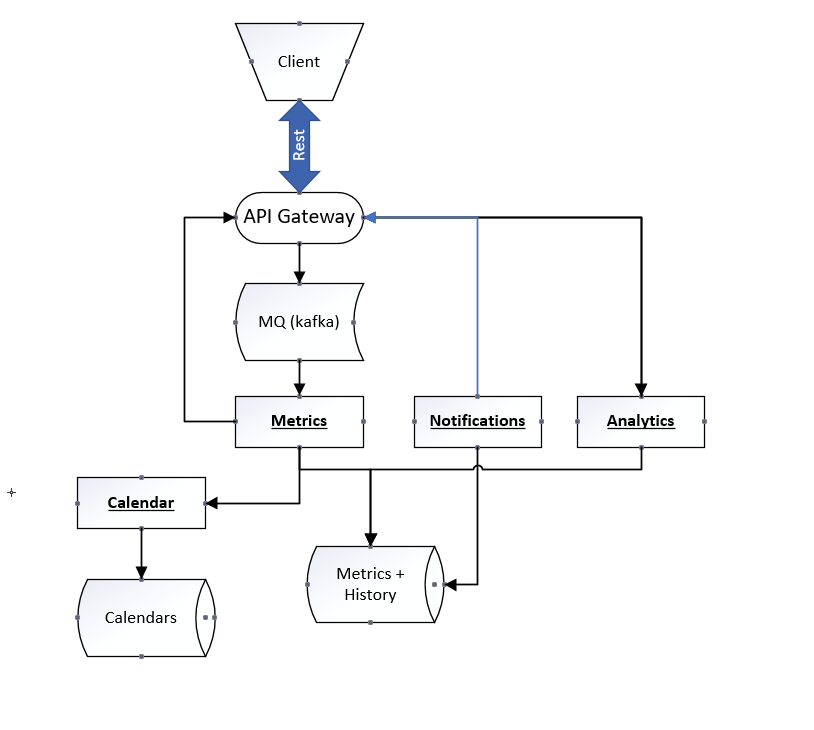
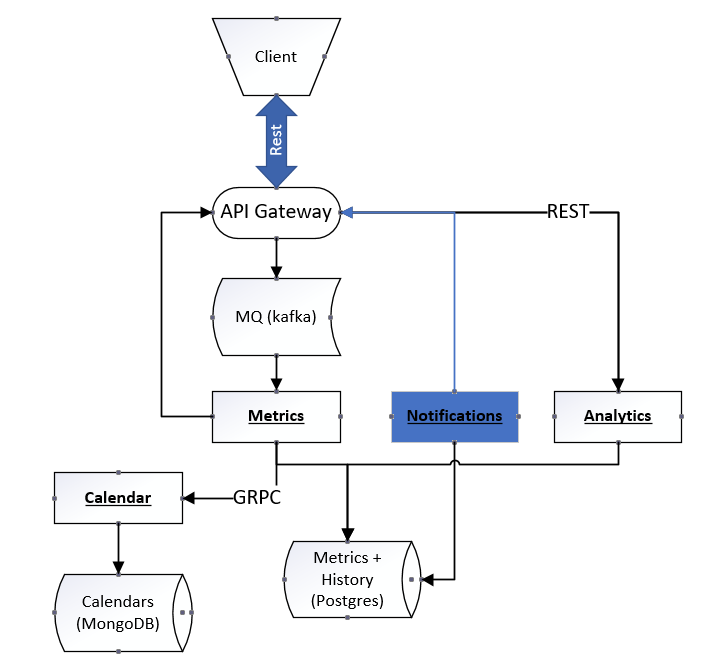
Описание проекта README

Changed region(s): [[0.0616, 0.0, 0.9552, 0.9851]]

diff --git a/README.md b/README.md
@@ -4,7 +4,20 @@
 Например, с помощью сервиса можно добавить временные метрики к задачам в таск-трекерах (Jira, Trello и др.) для отслеживания времени, потраченное на выполнение задач на разных этапах ее решения,
 либо добавить количественные метрики для отслеживания показателей вида "сколько раз задача была возвращена в работу заказчиком".
 При этом основным требованием к сервису является его легкая интеграция в существующие системы с помощью вызова REST-вебхуков с передачей минимального кол-ва информации по задаче (или иной сущности, по которой считаются метрики)
-Например: на изменение задачи в Jira добавляется вебхук, который отправляет минимальную иннформацию о текущем состоянии задачи, которой достаточно для обновления метрик, привязанных к этой задаче.
+### User-case сервиса
+1. Администратор сервиса создает метрику "Время решения заявки", добавляет два metric condition: 
+   * если статус заявки = "В работе", счетчик запускается (status=START), и начинает отсчет времени с 0 (actualTime = 0)
+   * если статус заявки = "Выполнено", счетчик останавливается (status=STOP)
+2. Администратор Jira настраивает веб-хук: при создании\обновлении заявки отправлять ключ заявки, время события и значения основных полей: статус, приоритет, тип и т.д. 
+3. Пользователь Jira создает заявку, и затем переводит ее в статус "В работе", в этот момент выполняется веб-хук и событие отправляется в сервис
+4. Gateway получает событие, помещает его в Kafka, и возвращает ответ пользователю Accepted
+5. Модуль metrics получает сообщение из очереди, находит метрику, выполняет ее правила (с помощью graalVM polyglot). В данном случае сработает первое правило, и счетчик запустится
+6. Далее, через какое-то время пользователь переводит заявку в Jira в статус "Выполнено". Metrics так же получает это сообщение, выполняется второе правило.
+7. При остановке счетчика нужно посчитать кол-во рабочего времени, которое по нему прошло, с учетом производственного календаря и рабочих периодов.   
+   Для этого выполняется запрос в модуль Calendar для рассчета времени, результат записывается в счетчик
+8. В БД сохраняется счетчик с посчитанным временем работы, а так же его история
+9. Каждый раз, когда пользователь открывает заявку в Jira, выполняется запрос в сервис на получение метрик, которые ведутся по этой заявке
+10. Так же пользователи могут запросить аналитику по счетчикам и их истории. Например: посчитать среднее время решения заявок, или посчитать время решения заявок в 99% персентиле и т.д.
 ### Функционал сервиса:
 * настройка и ведение временных, количественных и контекстных метрик с привязкой к, включая сохранение истории по каждой метрики
 * аналитика и сбор данных по метрикам. например, "сколько времени задача была на статусе Х"
@@ -19,3 +32,46 @@
 * Сервис notifications позволяет формировать уведомления о счетчиках, которые приближаются к своим критическим показаниям или превысили их. Уведомления могут настраиваться клиентом
 ### Визуальная схема приложения
 ![app-schema.png](app-schema.png)
+### Описание модулей и примененных в них технологиях и фреймворках:
+1. API Gateway - реализован с использованием spring web flux. Причины: минимум логики (отправка сообщений в Kafka и пару REST-запросов за аналитикой и счетчикам), максимально быстрый ответ пользователю
+2. MQ Kafka - брокер сообщений, в котором регистрируются все входящие сообщения изменения entity от клиентов
+3. Metrics - модуль, который читает сообщения об изменении entity, создает\обновляет метрики, связанные с entity, и ведет историю метрик. БД: postgres
+   Правила метрик хранятся в виде JS\GROOVY скриптов и выполняются с помощью GraalVM polyglot
+4. Calendar - модуль, в котором хранятся производственные календари по годам. 
+   Поддерживает запросы по grpc для более быстрых рассчетов, в качестве БД используется MongoDB для более удобного хранения календарей
+   Так же в модуле реализован кеш календарей с использованием SoftReference
+5. Noitifications (пока не реализован) - модуль уведомлений. Администраторы сервиса могут настроить уведомления по счетчикам, которые будут приходить клиентам.
+   Например: отправлять письмо клиенту, когда счетчик активен и исчерпал свое время работы на 90%. Работает на той же БД, что и metrics
+6. Analytics - модуль аналитики. В нем находятся аналитические функции, которые собирают и обрабатывают данные по метрикам и их истории
+7. Jira plugin для демонстрации функционала метрик в заявках
+
+Сервис реализован как maven-проект, разбитый на модули: модули api (общие модули, не имеют бизнес-логики) и модули app (исполняемые модули сервиса)  
+Настроен deploy проекта в Docker (docker-compose в корне проекта), а так же написан Helm chart для деплоя сервиса в Kubernetes, включая БД, Prometheus и Grafana (с использованием spring actuator)  
+В модулях calendar и metric добавлены миграции данных с использованием библиотек mongock и flyway соответственно
+#### Проведено небольшое нагрузочное тестирование с помощью Jmeter:
+![img_3.png](img_3.png)
+#### Сборка docker-образов (запускаем из корня проекта):
+```
+docker build -f .\calendar-app\Dockerfile -t metricit/calendar-app:1.0 .     
+docker build -f metric-app/Dockerfile -t metricit/metric-app:1.0 .    
+docker build -f analytic-app/Dockerfile -t metricit/analytic-app:1.0 .
+docker build -f gateway/Dockerfile -t metricit/gateway:1.0 .
+```
+#### Разворачиваем helm в локальном kubernetes:
+```
+helm install metricit ./metricit-chart
+```
+#### Для запуска плагина Jira требуется скачать Atlassian SDK, и затем запустить команды:
+```
+atlas-mvn clean package
+atlas-mvn jira:run
+```
+Примечание: из личного опыта, сборка плагинов для Jira редко проходит с первого раза гладко, так же бывает зависимость от окружения, в котором идет сборка
+#### Рабочий сервис в локальном kubernetes:
+![img.png](img.png)
+#### Настроен базовый мониторинг в Grafana по потреблению памяти, потокам и загруженным классам (из-за выполнения скриптов в runtime):
+![img_1.png](img_1.png)
+#### Отображение счетчиков в интерфейсе Jira:
+![img_2.png](img_2.png)
+#### Сбор аналитики по метрикам (в данном случае - среднее время решения заявок):
+![img_4.png](img_4.png)
